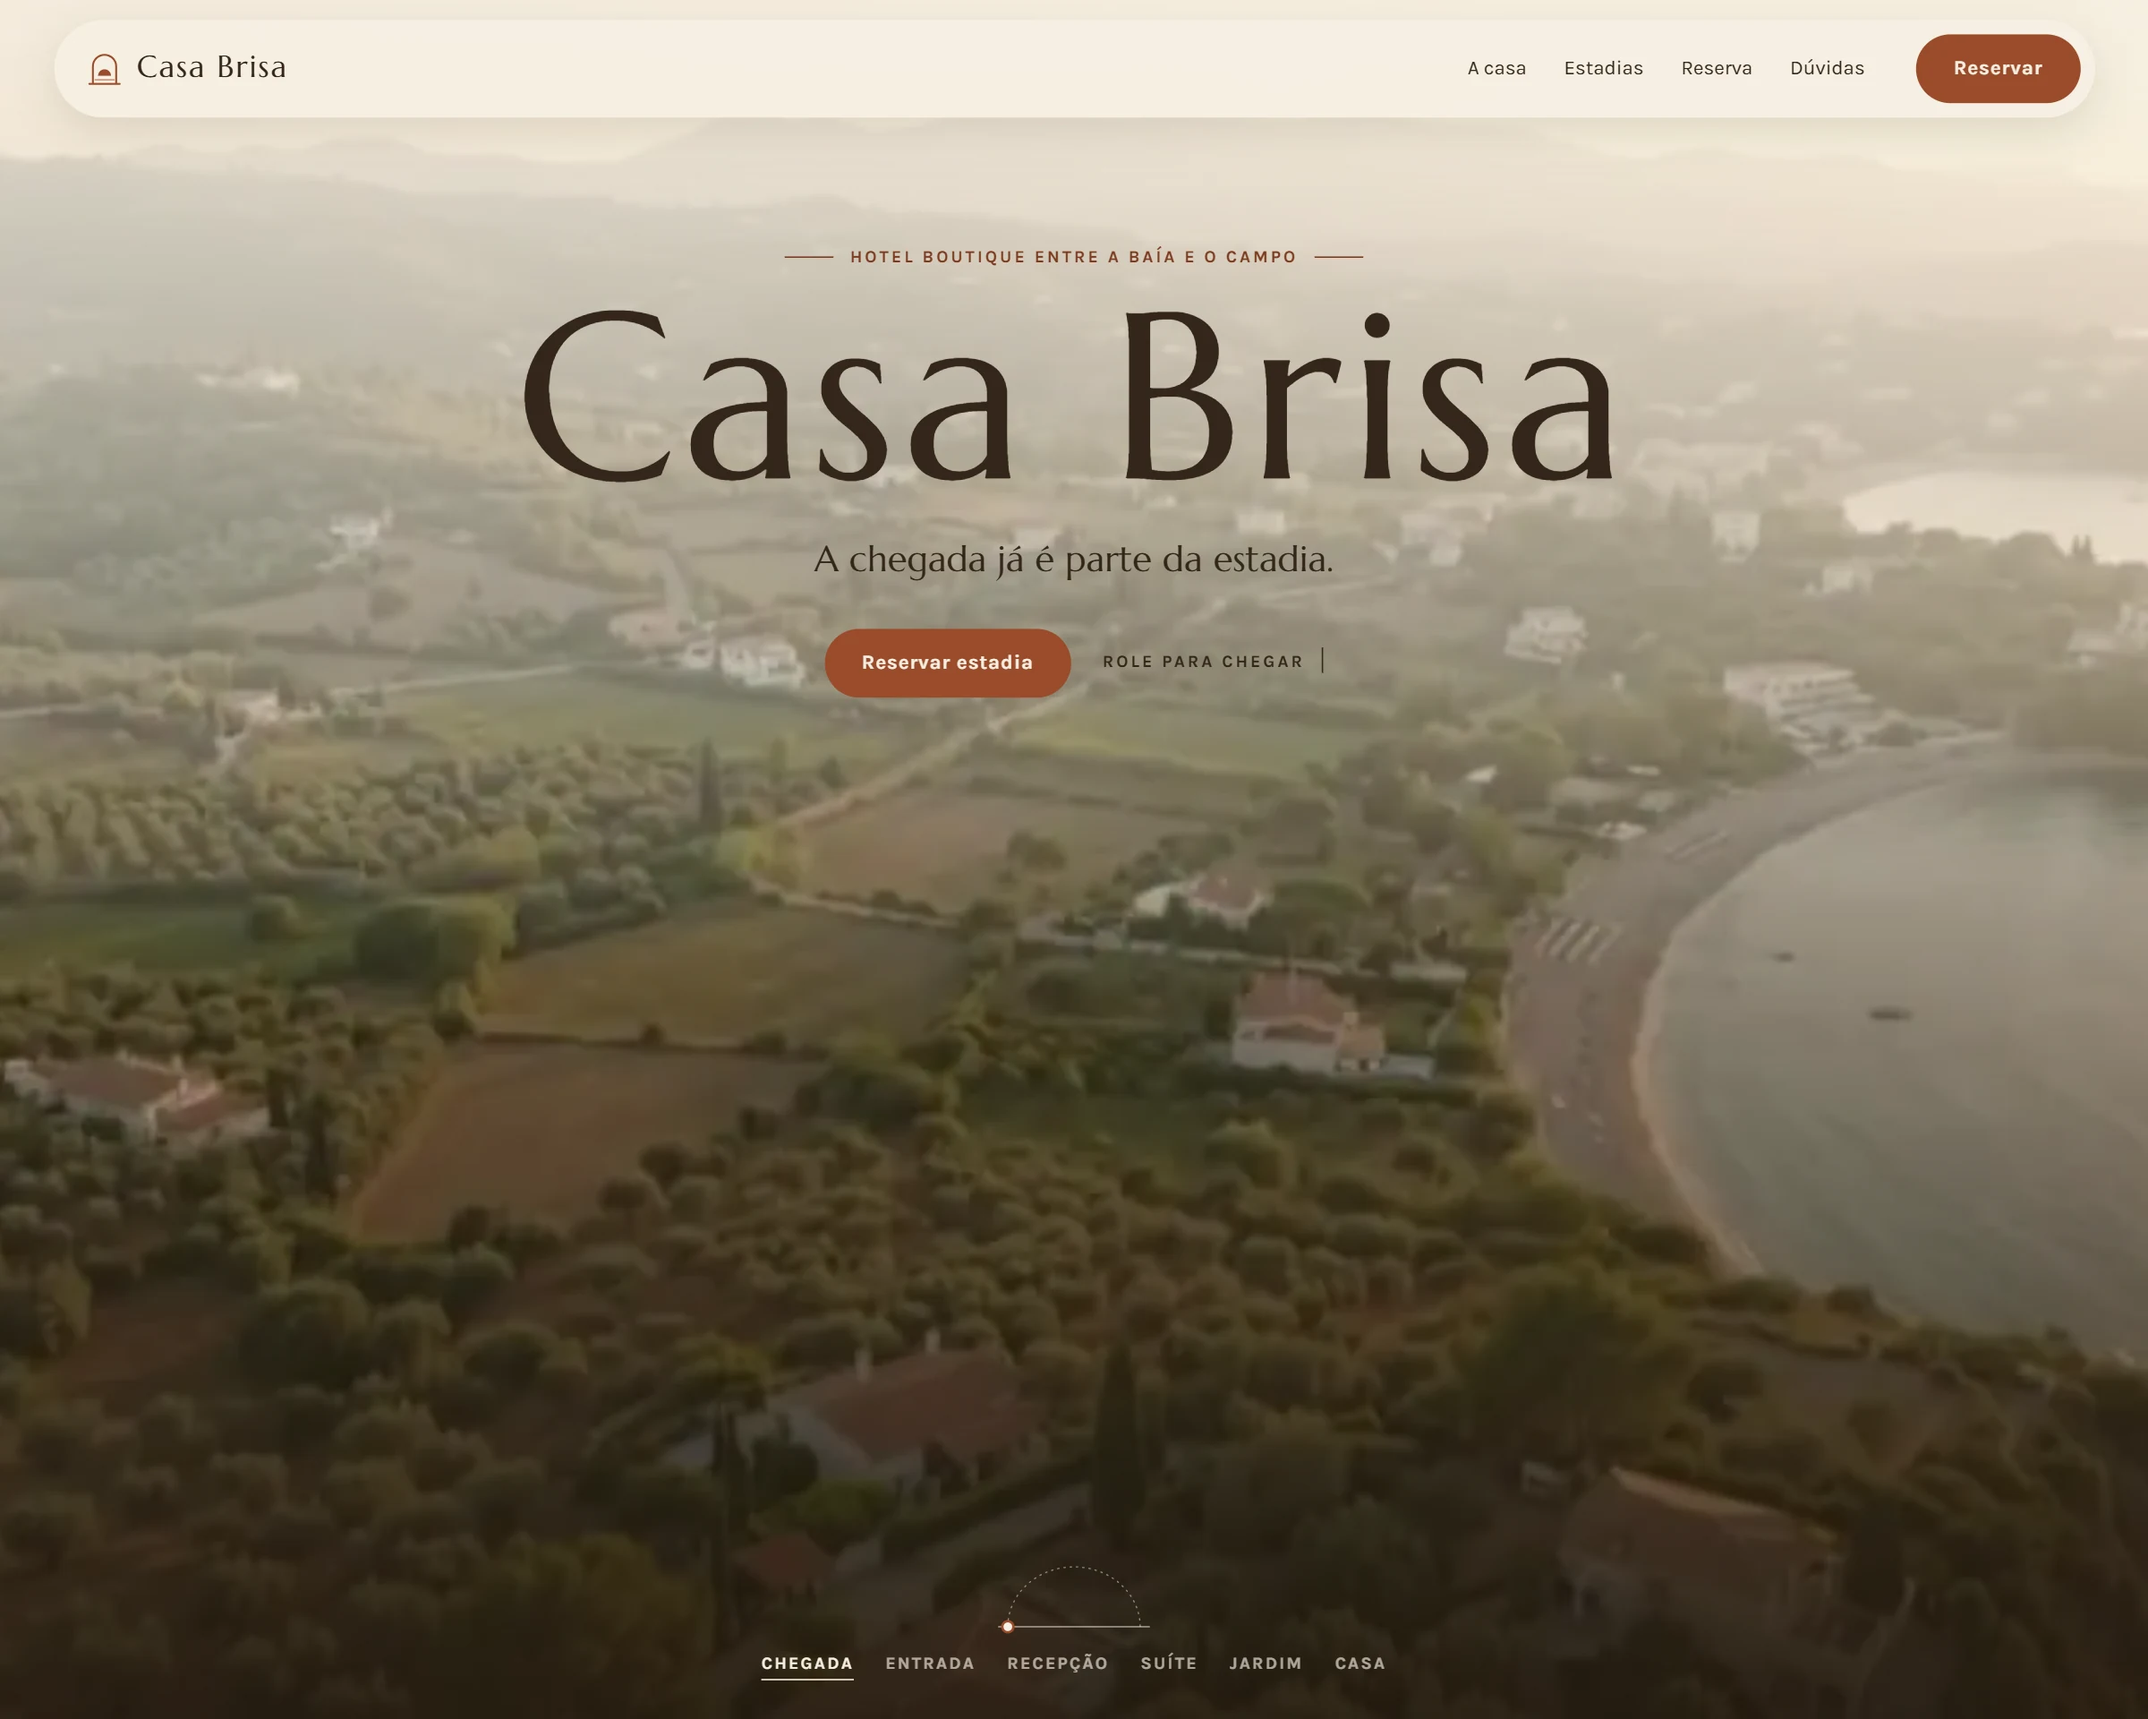
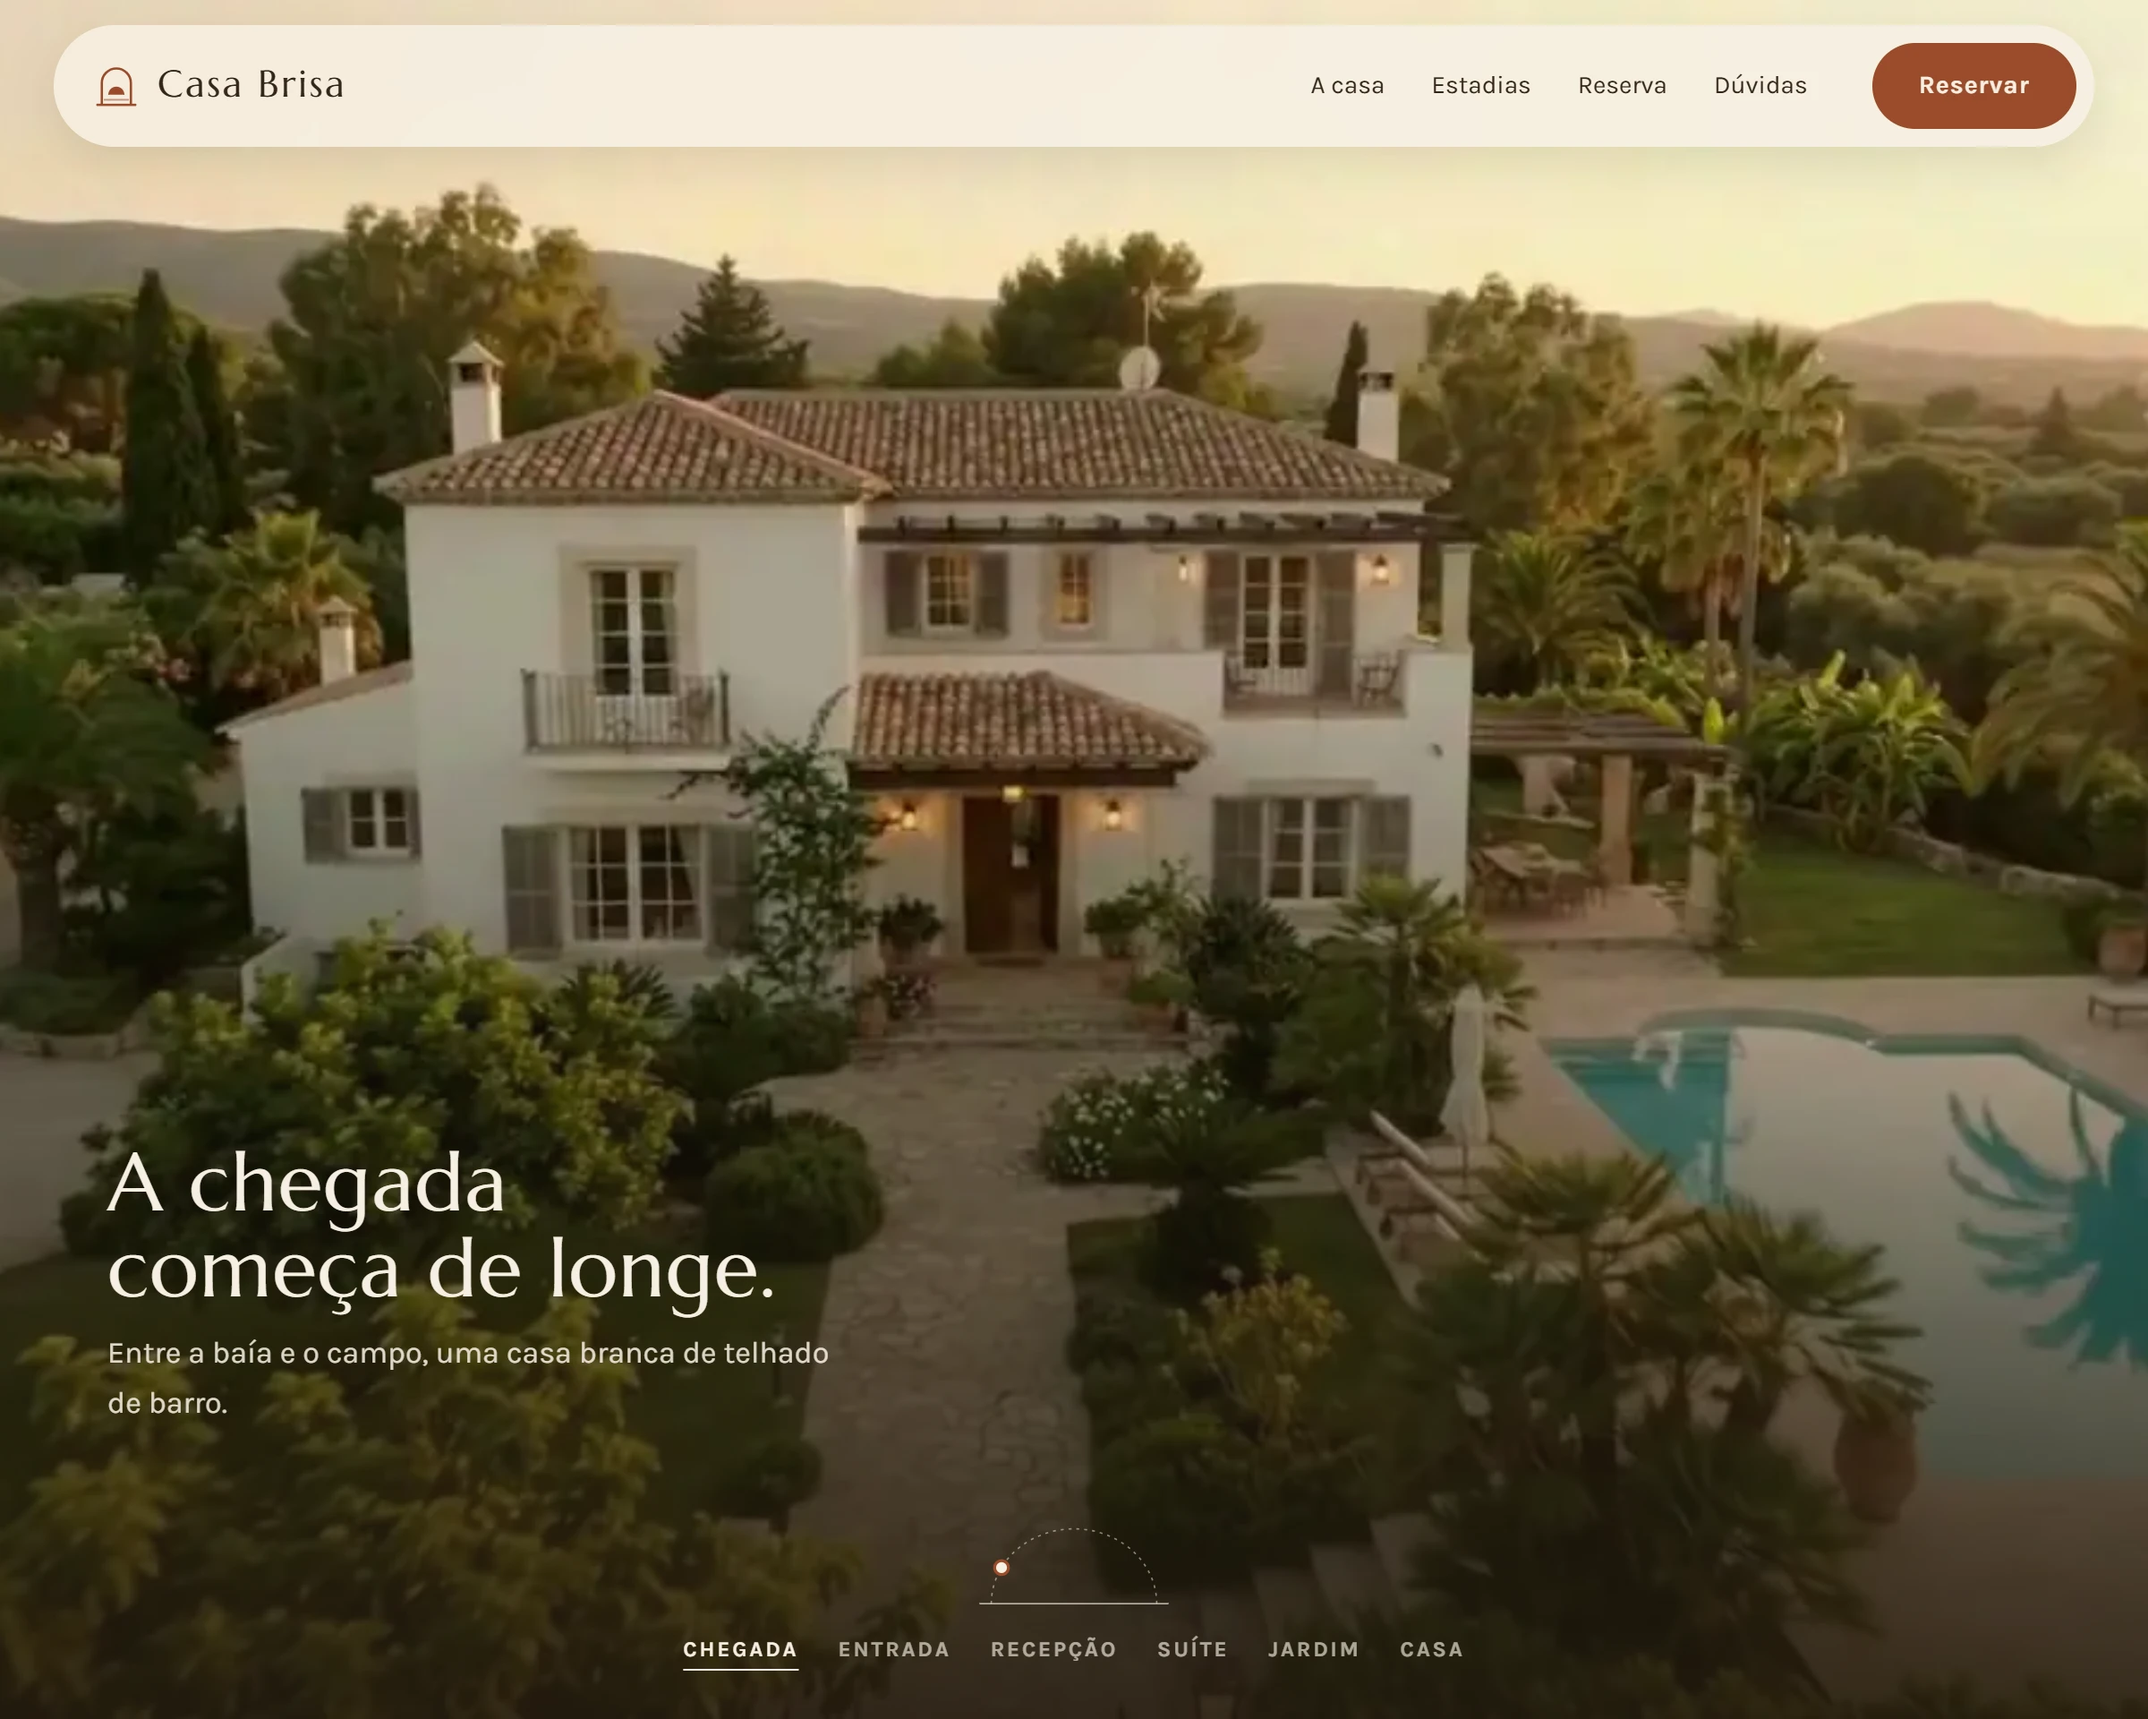
Solid paper scrim behind the header row; Casa Brisa's cover is the facade with the pool

diff --git a/app/editorial.module.css b/app/editorial.module.css
@@ -619,3 +619,7 @@
 .nav nav .motionControl:hover,.nav nav .motionControl:focus-visible{opacity:1}
 .nav nav .motionControl:before{width:8px;height:10px;border-width:0 2.5px}
 .nav nav .motionControl[aria-pressed=true]:before{width:0;height:0;border-width:5px 0 5px 8px}
+
+/* Paper sections (24/11/2026): the scrim stays solid behind the whole header row, so the name and the menu never sit
+   on a project cover while the grid scrolls under them. */
+.page[data-editorial-theme=paper] .nav:before{background:linear-gradient(180deg,var(--nav-scrim) 74%,transparent)}

diff --git a/AGENTS.md b/AGENTS.md
@@ -692,6 +692,8 @@ This block is written and re-added by `next dev` — verify at `node_modules/nex
   - **Cartões sem fonte nem cores:** o nome da fonte e as cinco bolinhas de cor saíram dos cartões da homepage; falavam com designers, não com o dono do negócio. Ficam nome, setor, benefício e "Ver o site". Substitui a regra de 12/11 de mostrar fonte e cores medidas em cada marca.
   - **Pausa dentro do menu:** o botão de pausa é o último item da pílula do menu (`createPortal` em `EditorialMotion`), no PC e no celular, e não mais um botão redondo solto no pé da tela.
   - **Pausar não muda de lugar:** pausar mudava a altura das cenas (pasta e mão) e a tela pulava para outro conteúdo. Agora a página guarda o que está no meio da tela (o elemento, fora das cenas; a seção, dentro delas) e volta a ele ao pausar e ao retomar.
+  - **Cabeçalho nas seções de papel:** a faixa creme atrás do cabeçalho fica sólida em toda a altura da linha (74%, antes 45%), para o nome e o menu não ficarem sobre as capas quando a grade passa por baixo.
+  - **Capa da Casa Brisa:** trocada pela fachada com a piscina e "A chegada começa de longe.", capturada do próprio tour em 1200×960 a 2× (`brisa-hero.webp`). A vista aérea do topo ficava esmaecida e com título pequeno no cartão. Ao regravar a Brisa, refazer esta capa no mesmo ponto do tour (16%).
   - **Capa da Lume:** passou a ser a manhã, depois que as cobranças caem (`capture-brand-films.mjs lume --format=loop`). À noite os bilhetes ficavam sobre o título, ilegíveis no tamanho do cartão. A prévia de 6 s continua noite → manhã → noite.
 - **Guia de rolagem da homepage fora do topo** (23/11/2026, decisão do usuário, substitui o pedido de 22/11 de mostrá-lo desde o topo). Ele só começa quando o topo já saiu quase todo da tela.
 - **Varredura de acessibilidade** (23/11/2026): axe com WCAG 2.0, 2.1 e 2.2 nos níveis A e AA, em 18 páginas, no PC e no celular. As páginas são a homepage nos quatro idiomas, `/clinicas`, `/privacidade`, as dez marcas, a Aura e a Orla.
